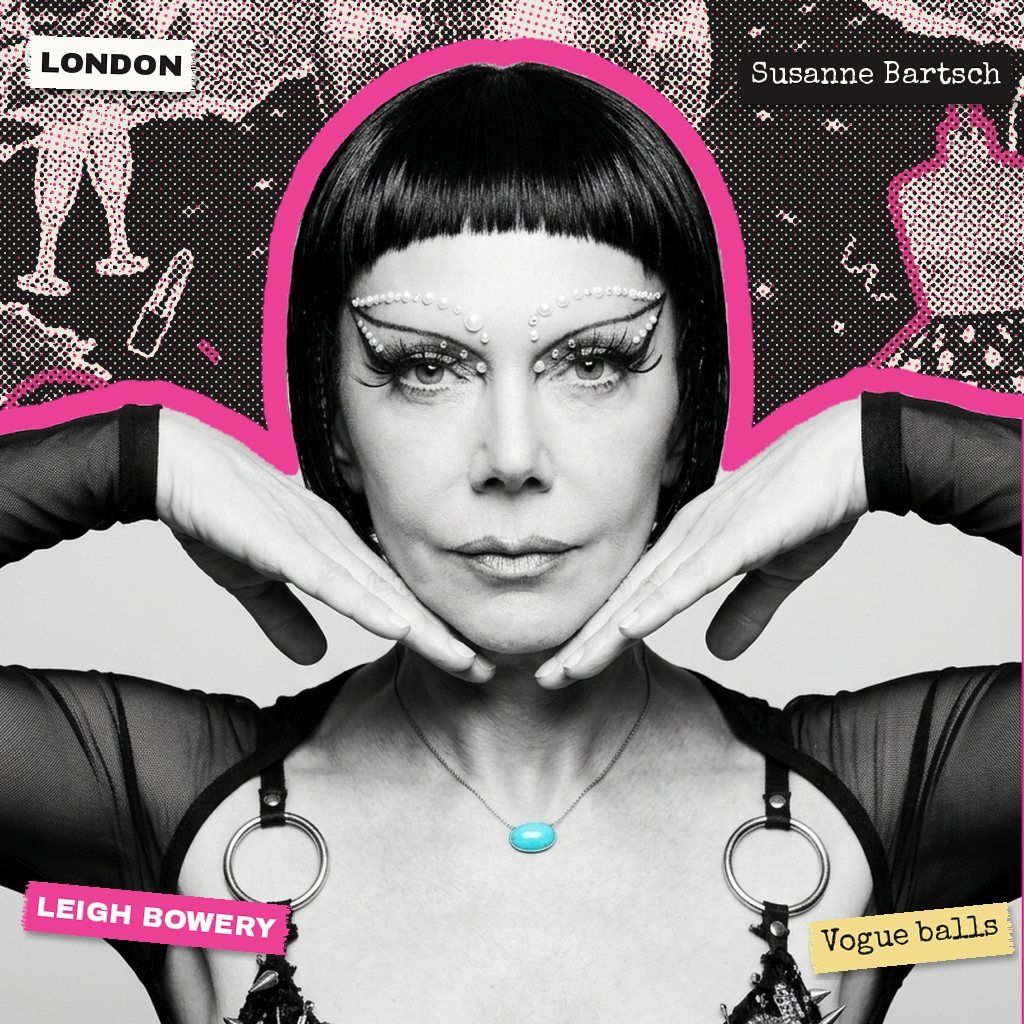
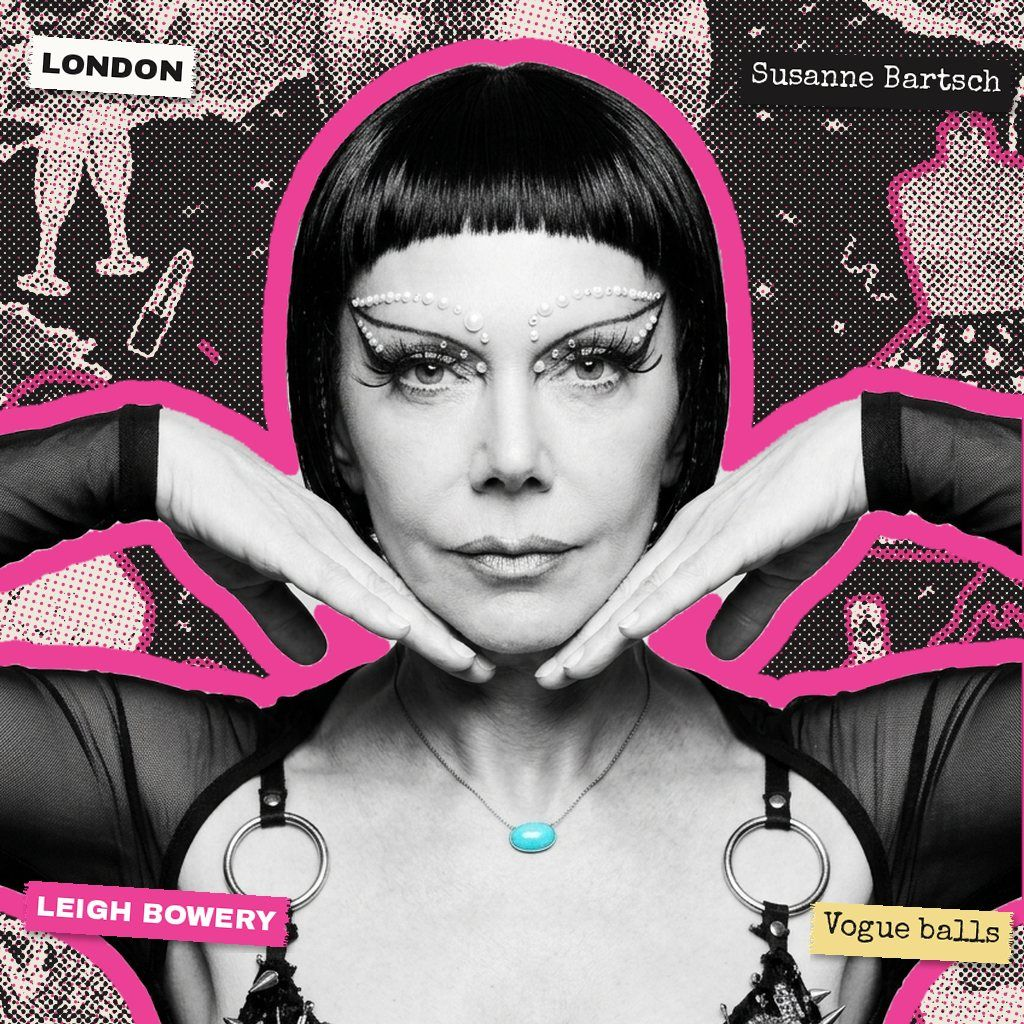
S02E03 Susanne Bartsch polaroid: collage now shows between her arms and head (polaroid-box keeps backdrop-coloured holes as background)
Claude-Session: https://claude.ai/code/session_011MVAnQFHQ9Wv2cvGWey2uC

diff --git a/scripts/polaroid-box.py b/scripts/polaroid-box.py
@@ -98,7 +98,18 @@ def cutout(img, composite):
     H, W = a.shape; ff = a.copy(); m = np.zeros((H + 2, W + 2), np.uint8)
     for x, y in [(x, 0) for x in range(0, W, 8)] + [(x, H - 1) for x in range(0, W, 8)] + [(0, y) for y in range(0, H, 8)] + [(W - 1, y) for y in range(0, H, 8)]:
         if ff[y, x] == 0: cv2.floodFill(ff, m, (x, y), 1)
-    a = a | (1 - ff)
+    # ...but a hole that is plain studio backdrop (the gap between raised arms and the head - S02E03 Susanne Bartsch,
+    # Lisa 28 Oct 2026) stays background, so the collage shows through it too
+    holes = ((1 - ff) & (1 - a)).astype(np.uint8)
+    edge = np.zeros_like(a, bool); edge[:6, :] = edge[-6:, :] = edge[:, :6] = edge[:, -6:] = True
+    bgpx = rgb[edge & (a == 0)].reshape(-1, 3).astype(np.float32)
+    bgc = np.median(bgpx, axis=0) if len(bgpx) else np.array([200, 200, 200], np.float32)
+    n2, lab2, st2, _ = cv2.connectedComponentsWithStats(holes)
+    for i in range(1, n2):
+        px = rgb[lab2 == i].astype(np.float32)
+        if st2[i, cv2.CC_STAT_AREA] > 400 and np.linalg.norm(px.mean(0) - bgc) < 28 and px.std(0).mean() < 18:
+            holes[lab2 == i] = 0
+    a = a | holes
     if composite: a = cv2.erode(a, np.ones((5, 5), np.uint8))
     return rgb.astype(np.float32), a
 

diff --git a/AGENTS.md b/AGENTS.md
@@ -103,3 +103,4 @@
 - Guest A-Z cards (/explore/<guest>) carry a fuller schema.org Person (description, jobTitle = guest line, image = the episode's og picture, subjectOf = the AFTERPARTY episode page) - keep it when changing explore.$slug.tsx.
 - The "Edit with Lovable" badge stays on the live site (Lisa, 27 Oct 2026: happy to show it) - never suggest hiding it.
 - "Stuck publish" lesson (28 Oct 2026): publishing worked; the browser pane had a __dpl cookie pinning it to an old deployment. Before calling a publish stuck, check document.cookie on the live tab and clear __dpl (or compare x-deployment-id from Claude in Chrome). Search Console .com property verified 28 Oct (HTML tag), sitemap submitted; Change of Address from lovable.app failed validation (Google could not fetch the old address) - retry later.
+- Polaroid cut-outs (28 Oct 2026): scripts/polaroid-box.py fills holes inside the figure, but a hole that is plain studio backdrop (e.g. the gap between raised arms and the head) stays background so the collage shows through - Susanne Bartsch's box was rebuilt for this (Lisa: the background didn't show everywhere). Check every new polaroid for grey backdrop patches.
